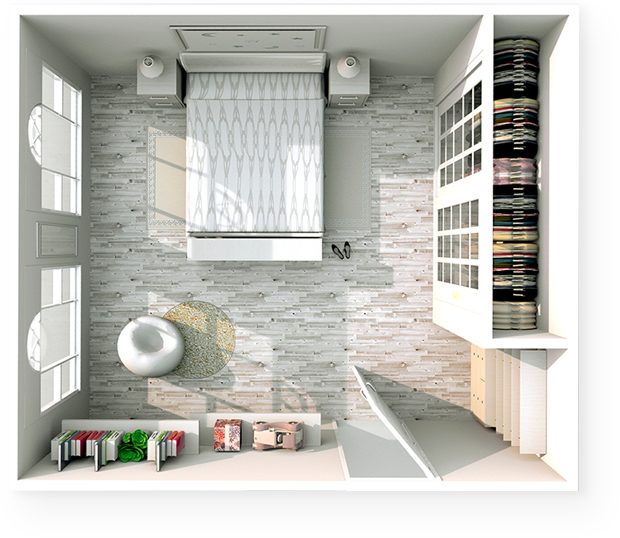
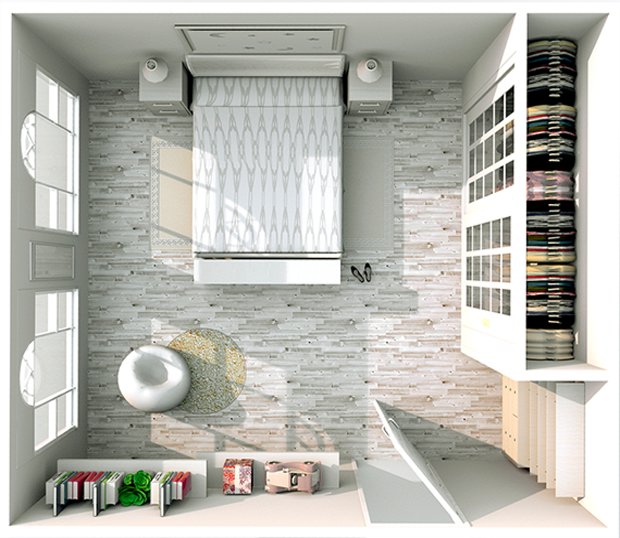
Сверстал секцию .offer

diff --git a/css/style.css b/css/style.css
@@ -10,6 +10,10 @@
   src: url("../fonts/MuseoSansCyrl-700.eot?#iefix") format("embedded-opentype"), url("../fonts/MuseoSansCyrl-700.woff") format("woff"), url("../fonts/MuseoSansCyrl-700.ttf") format("truetype");
   font-weight: normal;
   font-style: normal; }
+* {
+  -webkit-box-sizing: border-box;
+          box-sizing: border-box; }
+
 body {
   font-family: 'Museo Sans Light', sans-serif;
   font-weight: 300; }
@@ -32,7 +36,26 @@ img {
   border-radius: 10px;
   background-color: #ffd200;
   border: none;
-  padding: 18px 30px; }
+  padding: 20px 30px; }
+  .button:hover {
+    background-color: #ffdb33;
+    cursor: pointer; }
+
+.section {
+  padding: 70px 0; }
+  .section-title {
+    font-size: 24px;
+    font-family: 'Museo Sans Bold', sans-serif;
+    font-weight: 700; }
+  .section-subtitle {
+    font-size: 16px;
+    display: block; }
+
+.input {
+  border: 1px solid #dddddd;
+  padding: 20px 26px;
+  font-size: 15px;
+  border-radius: 10px; }
 
 .navbar {
   padding: 5px 0; }
@@ -87,7 +110,7 @@ img {
     font-size: 12px;
     padding: 15px 26px; } }
 .hero {
-  background-color: #f3f3f3;
+  background-color: #f5f5f5;
   padding: 50px 0;
   color: #333333; }
   .hero-block {
@@ -100,14 +123,15 @@ img {
   .hero-text {
     -ms-flex-preferred-size: 45%;
         flex-basis: 45%;
-    padding-right: 120px; }
+    padding-right: 100px; }
     .hero-text__title {
       font-size: 41px;
       font-weight: 700;
       line-height: 55px;
       margin-bottom: 40px;
       font-family: 'Museo Sans Bold', sans-serif;
-      font-weight: 700; }
+      font-weight: 700;
+      min-width: 500px; }
     .hero-text__subtitle {
       display: inline-block;
       font-size: 20px;
@@ -125,6 +149,8 @@ img {
           -ms-flex-align: center;
               align-items: center;
       margin-bottom: 25px; }
+      .hero-list__item:last-child {
+        margin-bottom: 0; }
     .hero-list__image {
       width: 40px;
       height: 40px;
@@ -185,5 +211,86 @@ img {
   src: url("../fonts/MuseoSansCyrl-700.eot?#iefix") format("embedded-opentype"), url("../fonts/MuseoSansCyrl-700.woff") format("woff"), url("../fonts/MuseoSansCyrl-700.ttf") format("truetype");
   font-weight: normal;
   font-style: normal; }
+.offer {
+  background: url("../image/offer-bg.png") no-repeat;
+  background-position: center right;
+  background-size: contain;
+  margin-bottom: 70px;
+  position: relative; }
+  .offer:before {
+    content: "";
+    width: 50%;
+    height: 100%;
+    position: absolute;
+    background-color: #ffffff;
+    top: 0;
+    left: 0; }
+  .offer-block {
+    width: 50%;
+    padding-right: 90px;
+    position: relative; }
+  .offer__title {
+    max-width: 360px;
+    line-height: 35px;
+    margin: 0 0 22px 0; }
+  .offer__subtitle {
+    max-width: 250px;
+    margin-bottom: 30px; }
+  .offer__input {
+    margin-bottom: 30px;
+    width: 240px; }
+    .offer__input:first-child {
+      margin-right: 10px; }
+  .offer__button {
+    width: 100%;
+    min-height: 70px;
+    font-family: 'Museo Sans Bold', sans-serif;
+    font-weight: 700; }
+  .offer__footer {
+    margin-top: 15px;
+    display: -webkit-box;
+    display: -ms-flexbox;
+    display: flex;
+    -webkit-box-pack: justify;
+        -ms-flex-pack: justify;
+            justify-content: space-between;
+    text-align: left;
+    font-size: 15px;
+    line-height: 24px; }
+    .offer__footer a {
+      font-family: 'Museo Sans Bold', sans-serif;
+      font-weight: 700;
+      color: #333333;
+      text-decoration: none; }
+
+@media (max-width: 1200px) {
+  .offer__input {
+    width: 100%;
+    margin-bottom: 10px; }
+  .offer__button {
+    font-size: 12px; } }
+@media (max-width: 870px) {
+  .offer {
+    background: #ffffff; }
+    .offer-block {
+      width: 100%;
+      padding-right: 0px; } }
+@media (max-width: 550px) {
+  .offer {
+    padding-top: 50px;
+    padding-bottom: 50px;
+    margin-bottom: 0; }
+    .offer-block {
+      padding-right: 0; }
+    .offer__title {
+      font-size: 18px;
+      line-height: 1.4; }
+    .offer__subtitle {
+      font-size: 14px; }
+    .offer__button {
+      font-size: 14px;
+      padding: 20px 45px; }
+    .offer__footer {
+      display: block; } }
 
 /*# sourceMappingURL=style.css.map */

diff --git a/index.html b/index.html
@@ -60,7 +60,7 @@
 					</div>
 					<!-- /.hero-text -->
 					<div class="hero-image">
-						<img src="image/hero-image.png" alt="План квартиры">
+						<img src="image/hero-image_.png" alt="План квартиры">
 					</div>
 					<!-- /.hero-image -->
 				</div>
@@ -69,6 +69,30 @@
 			<!-- /.container -->
 		</section>
 		<!-- /.hero -->
+		<section class="offer section">
+			<div class="container">
+				<div class="offer-block">
+					<h2 class="section-title offer__title">Мы бесплатно разработаем <br> дизайн-проект Вашего жилья <br> и реализуем его!</h2>
+					<!-- /.section-title -->
+					<span class="section-subtitle offer__subtitle">Оставьте заявку на разработку <br>  бесплатного дизайн-проекта! 
+					</span>
+					<form action="#" class="form offer__form">
+						<input type="text" class="input offer__input" placeholder="Ваше имя">
+						<input type="tell" class="input offer__input" placeholder="Ваш телефон">
+						<button class="button offer__button">Получить бесплатный дизайн-проект</button>
+					</form>
+					<!-- /.form offer__form -->
+					<div class="offer__footer">
+						<p class="offer__feedback">Наш менеджер перезвонит Вам <br> в течение 60 секунд  </p>
+						<p class="offer__tell">или перезвоните нам сами <br><a href="tel:+7(495)42-251-31">+7(495)42-251-31</a></p>
+					</div>
+					<!-- /.offer_footrer -->
+				</div>
+				<!-- /.offer-block -->
+			</div>
+			<!-- /.container -->
+		</section>
+		<!-- /.offer -->
 	</main>
 </body>
 </html>

diff --git a/sass/_offer.sass b/sass/_offer.sass
@@ -1,0 +1,78 @@
+.offer 
+	background: url('../image/offer-bg.png') no-repeat
+	background-position: center right
+	background-size: contain
+	margin-bottom: 70px
+	position: relative
+	&:before 
+		content: ''
+		width: 50%
+		height: 100%
+		position: absolute
+		background-color: #ffffff
+		top: 0
+		left: 0
+	&-block 
+		width: 50%
+		padding-right: 90px
+		position: relative
+	&__title 
+		max-width: 360px
+		line-height: 35px
+		margin: 0 0 22px 0
+
+	&__subtitle
+		max-width: 250px
+		margin-bottom: 30px
+	&__input 
+		margin-bottom: 30px
+		width: 240px
+		&:first-child 
+			margin-right: 10px 		
+	&__button 
+		width: 100%
+		min-height: 70px
+		+bold
+	&__footer 
+		margin-top: 15px	
+		display: flex	
+		justify-content: space-between
+		text-align: left
+		font-size: 15px
+		line-height: 24px
+		a 
+			+bold
+			color: $text-color
+			text-decoration: none
+@media (max-width: 1200px)  
+	.offer 
+		&__input
+			width: 100%	
+			margin-bottom: 10px
+		&__button 
+			font-size: 12px	
+@media (max-width: 870px)
+	.offer
+		background: #ffffff
+		&-block 
+			width: 100%
+			padding-right: 0px   
+@media (max-width: 550px)
+	.offer
+		padding-top: 50px 
+		padding-bottom: 50px
+		margin-bottom: 0
+		&-block 
+			padding-right: 0
+		&__title 
+			font-size: 18px
+			line-height: 1.4
+		&__subtitle 
+			font-size: 14px	
+		&__button 
+			font-size: 14px
+			padding: 20px 45px
+		&__footer 
+			display: block		
+
+

diff --git a/sass/_hero.sass b/sass/_hero.sass
@@ -1,5 +1,5 @@
 .hero
-	background-color: $bg-color
+	background-color: $secondary
 	padding: 50px 0
 	color: $text-color
 	&-block 
@@ -7,13 +7,14 @@
 		justify-content: space-between
 	&-text 
 		flex-basis: 45%	
-		padding-right: 120px
+		padding-right: 100px
 		&__title 
 			font-size: 41px
 			font-weight: 700
 			line-height: 55px
 			margin-bottom: 40px
 			+bold
+			min-width: 500px
 		&__subtitle 
 			display: inline-block
 			font-size: 20px
@@ -26,6 +27,8 @@
 			display: flex
 			align-items: center
 			margin-bottom: 25px
+			&:last-child
+				margin-bottom: 0
 		&__image 
 			width: 40px
 			height: 40px
@@ -70,3 +73,7 @@
 		&-text 
 			&__title 
 				font-size: 23px				
+
+
+
+

diff --git a/sass/_interface.sass b/sass/_interface.sass
@@ -1,4 +1,6 @@
 @import '_fonts.scss'
+* 
+	box-sizing: border-box
 body 
 	+reg
 img 
@@ -17,7 +19,23 @@ img
 	border-radius: 10px
 	background-color: $main-color
 	border: none
-	padding: 18px 30px
+	padding: 20px 30px
+	&:hover 	
+		background-color: lighten($main-color, 10%)
+		cursor: pointer
+.section 	
+	padding: 70px 0
+	&-title 
+		font-size: 24px
+		+bold
+	&-subtitle
+		font-size: 16px
+		display: block 
+.input 
+	border: 1px solid $border-input
+	padding: 20px 26px
+	font-size: 15px
+	border-radius: 10px
 
   
 

diff --git a/sass/_colors.sass b/sass/_colors.sass
@@ -1,6 +1,7 @@
 $main-color: #ffd200
 $text-color: #333333
-$bg-color: #f3f3f3 
+$secondary: #f5f5f5 
+$border-input: #dddddd
 
 
 

diff --git a/sass/style.sass b/sass/style.sass
@@ -3,3 +3,4 @@
 @import '_navbar.sass'
 @import '_hero.sass'
 @import '_fonts.scss'
+@import '_offer.sass'
